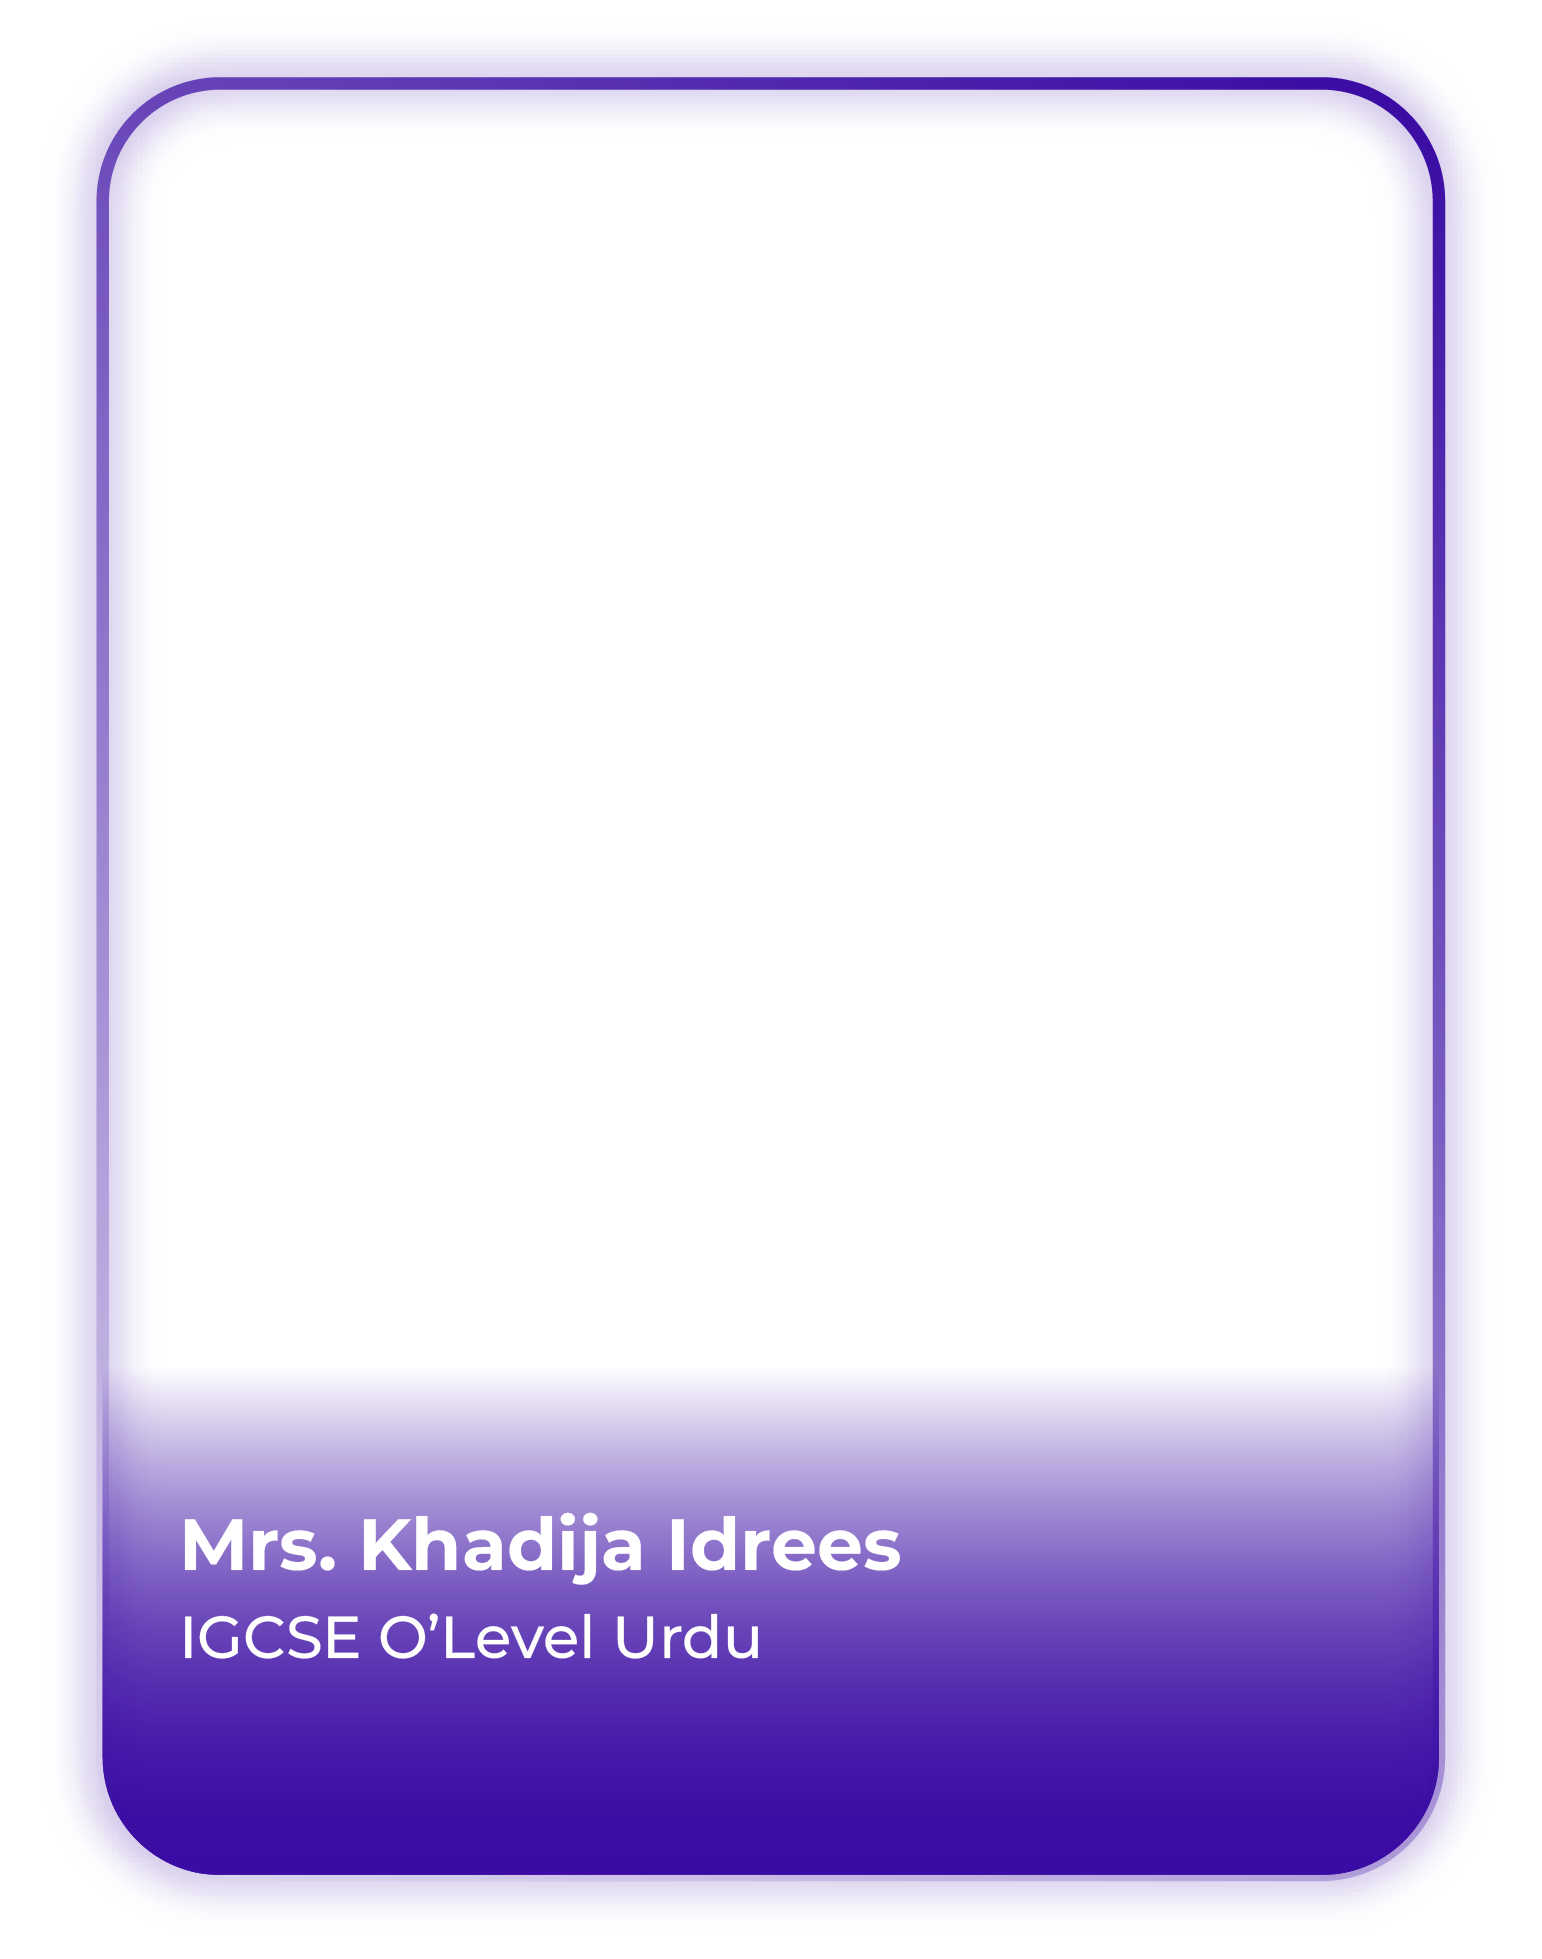
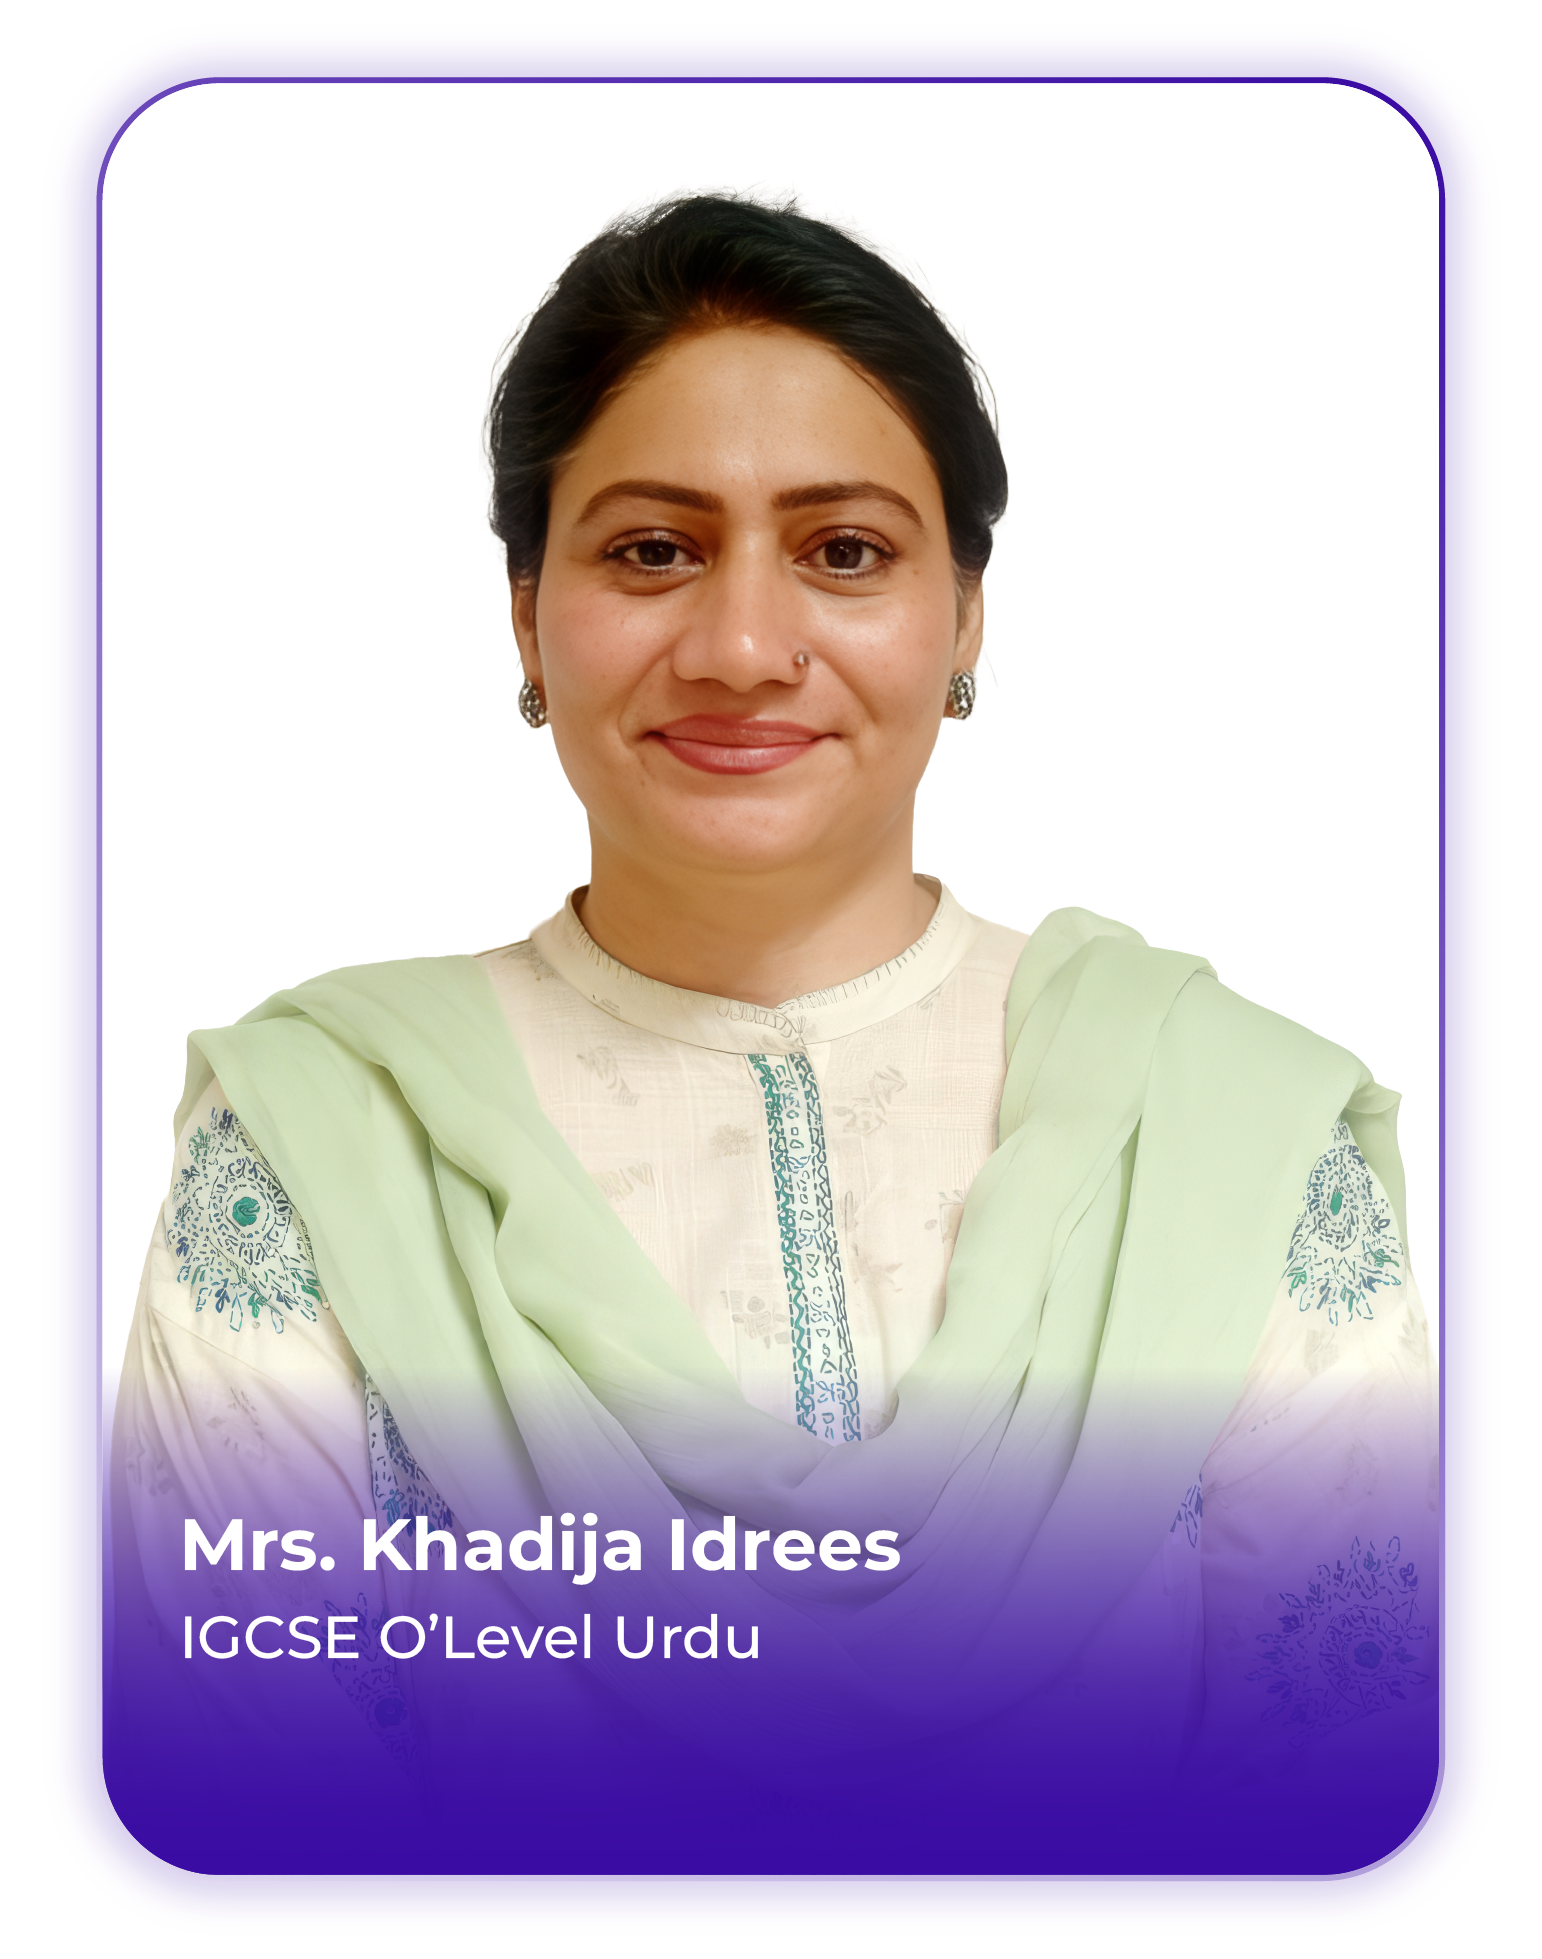
feat: implement Instructors page and add site components including Header, Footer, and WhatsApp widget.

diff --git a/frontend/src/pages/Instructors.jsx b/frontend/src/pages/Instructors.jsx
@@ -3,24 +3,34 @@ import Header from '../components/Header';
 import Footer from '../components/Footer';
 import '../styles/InstructorsPage.css';
 
+// Admin Imports
 import inst01 from '../assets/New folder/SISA - Website Instructor-01.png';
 import inst02 from '../assets/New folder/SISA - Website Instructor-02.png';
 import inst03 from '../assets/New folder/SISA - Website Instructor-03.png';
 import inst04 from '../assets/New folder/SISA - Website Instructor-04.png';
+import inst05 from '../assets/New folder/SISA - Website Instructor-05.png';
 import inst06 from '../assets/New folder/SISA - Website Instructor-06.png';
+
+// Faculty Imports
 import inst07 from '../assets/New folder/SISA - Website Instructor-07.png';
 import inst08 from '../assets/New folder/SISA - Website Instructor-08.png';
 import inst09 from '../assets/New folder/SISA - Website Instructor-09.png';
 import inst10 from '../assets/New folder/SISA - Website Instructor-10.png';
+import inst11 from '../assets/New folder/SISA - Website Instructor-11.png';
 import inst12 from '../assets/New folder/SISA - Website Instructor-12.png';
 import inst13 from '../assets/New folder/SISA - Website Instructor-13.png';
 import inst14 from '../assets/New folder/SISA - Website Instructor-14.png';
 import inst15 from '../assets/New folder/SISA - Website Instructor-15.png';
+import inst16 from '../assets/New folder/SISA - Website Instructor-16.png';
 import inst17 from '../assets/New folder/SISA - Website Instructor-17.png';
 import inst18 from '../assets/New folder/SISA - Website Instructor-18.png';
 import inst19 from '../assets/New folder/SISA - Website Instructor-19.png';
 import inst20 from '../assets/New folder/SISA - Website Instructor-20.png';
+import inst21 from '../assets/New folder/SISA - Website Instructor-21.png';
+import inst22 from '../assets/New folder/SISA - Website Instructor-22.png';
 import inst23 from '../assets/New folder/SISA - Website Instructor-23.png';
+// inst24 is missing in assets
+import inst25 from '../assets/New folder/SISA - Website Instructor-25.png';
 
 const Instructors = () => {
   const [hoveredShareBtn, setHoveredShareBtn] = useState(null);
@@ -58,13 +68,13 @@ const Instructors = () => {
       id: "admin-5",
       name: "Mrs. Khadija Idrees",
       role: "Coordinator – Urdu",
-      image: inst06,
+      image: inst05,
     },
     {
       id: "admin-6",
       name: "Mr. Furrukh Abbas",
       role: "Coordinator – History, Geography & Social Studies",
-      image: inst08,
+      image: inst06,
     }
   ];
 
@@ -73,109 +83,109 @@ const Instructors = () => {
       id: "faculty-1",
       name: "Mrs. Saeeda Salim",
       role: "A’Level Chemistry, IGCSE O’ & A’ Level Design & Tech, IGCSE O’ & A’ Level Travel & Tourism, IGCSE O’ & A’ Level Envirommental Management",
-      image: inst01,
+      image: inst07,
     },
     {
       id: "faculty-2",
       name: "Mr. Wasif W. Mir",
       role: "IGCSE O’Level Chemistry, IGCSE O’ & A’ Global Perspectives",
-      image: inst02,
+      image: inst08,
     },
     {
       id: "faculty-3",
       name: "Mr. Hassan Askari",
       role: "IGCSE O’ & A’ Mathematics & IGCSE O’Level Additional Mathematics",
-      image: inst04,
+      image: inst09,
     },
     {
       id: "faculty-4",
       name: "Mrs. Saneea Sohaib Khan",
       role: "IGCSE O’ Level Mathematics & Key Stage",
-      image: inst03,
+      image: inst10,
     },
     {
       id: "faculty-5",
       name: "Mrs. Khadija Idrees",
       role: "IGCSE O’Level Urdu",
-      image: inst06,
+      image: inst11,
     },
     {
       id: "faculty-6",
       name: "Mr. Mazhar Abbas Chaudhry",
       role: "IGCSE O’ & A’ Level Urdu",
-      image: inst07,
+      image: inst12,
     },
     {
       id: "faculty-7",
       name: "Mr. Furrukh Abbas",
       role: "IGCSE O’ Level Islamiyat & Pakistan Studies",
-      image: inst08,
+      image: inst13,
     },
     {
       id: "faculty-8",
       name: "Mr. Waris Ali",
       role: "IGCSE O’ Level Islamiyat & Pakistan Studies",
-      image: inst09,
+      image: inst14,
     },
     {
       id: "faculty-9",
       name: "Mr. Sajjad Afzal",
       role: "A’ Level Accounting & BTEC",
-      image: inst10,
+      image: inst15,
     },
     {
       id: "faculty-10",
       name: "Mr. Azam Saleem",
       role: "IGCSE O’Level Accounting & BTEC",
-      image: inst12,
+      image: inst16,
     },
     {
       id: "faculty-11",
       name: "Mr. M. Waqar Khan",
       role: "A’ Level Business & BTEC",
-      image: inst13,
+      image: inst17,
     },
     {
       id: "faculty-12",
       name: "Mr. Raja Shahzore Khan",
       role: "IGCSE O’ Level Business Studies & Commerce",
-      image: inst14,
+      image: inst18,
     },
     {
       id: "faculty-13",
       name: "Mr. M. Dawood Murtaza",
       role: "A’ Level Physics",
-      image: inst15,
+      image: inst19,
     },
     {
       id: "faculty-14",
       name: "Mr. Muhammad Jameel",
       role: "IGCSE O’ Level Physics",
-      image: inst17,
+      image: inst20,
     },
     {
       id: "faculty-15",
       name: "Mrs. Hafsa Akhtar",
       role: "IGCSE O’ Level English Language",
-      image: inst18,
+      image: inst21,
     },
     {
       id: "faculty-16",
       name: "Ms. Mishal Usman",
       role: "IGCSE O’ Level Biology & Chemistry",
-      image: inst19,
+      image: inst22,
     },
     {
       id: "faculty-17",
       name: "Mr. Abdul Quddus",
       role: "A’ Level Law",
-      image: inst20,
+      image: inst23,
     },
     {
       id: "faculty-18",
       name: "Mr. Muhammad Ali",
       role: "A’ Level Sociology",
-      image: inst23,
+      image: inst25,
     }
   ];
 

diff --git a/frontend/src/components/SISAOverview.jsx b/frontend/src/components/SISAOverview.jsx
@@ -2,7 +2,6 @@ import React from 'react';
 import '../styles/SISAOverview.css';
 import Stats from './Stats';
 import Partners from './Partners';
-import worldMapImage from '../assets/world-map.png'; // Adjust path as needed
 import coreValuesImage from '../assets/SISA Core Values.jpg.jpeg';
 import InteractiveMap from './InteractiveMap';
 const SISAOverview = () => {

diff --git a/frontend/src/components/Footer.jsx b/frontend/src/components/Footer.jsx
@@ -1,7 +1,7 @@
 import React from 'react';
 import '../styles/Footer.css';
 import { FaFacebookF, FaWhatsapp, FaLinkedinIn, FaMapMarkerAlt, FaPhoneAlt, FaEnvelope, FaInstagram } from 'react-icons/fa';
-import logo from "../assets/logo.png";
+import logo from "../assets/sisa_logo.png";
 import twitterIcon from "../assets/twitter (2).png";
 
 const Footer = () => {

diff --git a/frontend/src/components/Header.jsx b/frontend/src/components/Header.jsx
@@ -2,7 +2,7 @@
 import React, { useState, useEffect } from 'react';
 import { Link } from 'react-router-dom';
 import '../styles/Header.css';
-import logo from "../assets/logo.png"
+import logo from "../assets/sisa_logo.png"
 
 const Header = () => {
   const [scrolled, setScrolled] = useState(false);

diff --git a/frontend/src/components/WhatsAppWidget.jsx b/frontend/src/components/WhatsAppWidget.jsx
@@ -1,6 +1,6 @@
 import React, { useState } from 'react';
 import '../styles/WhatsAppWidget.css';
-import logo from '../assets/logo.png';
+import logo from '../assets/sisa_logo.png';
 
 const WhatsAppWidget = () => {
     const [isOpen, setIsOpen] = useState(false);
